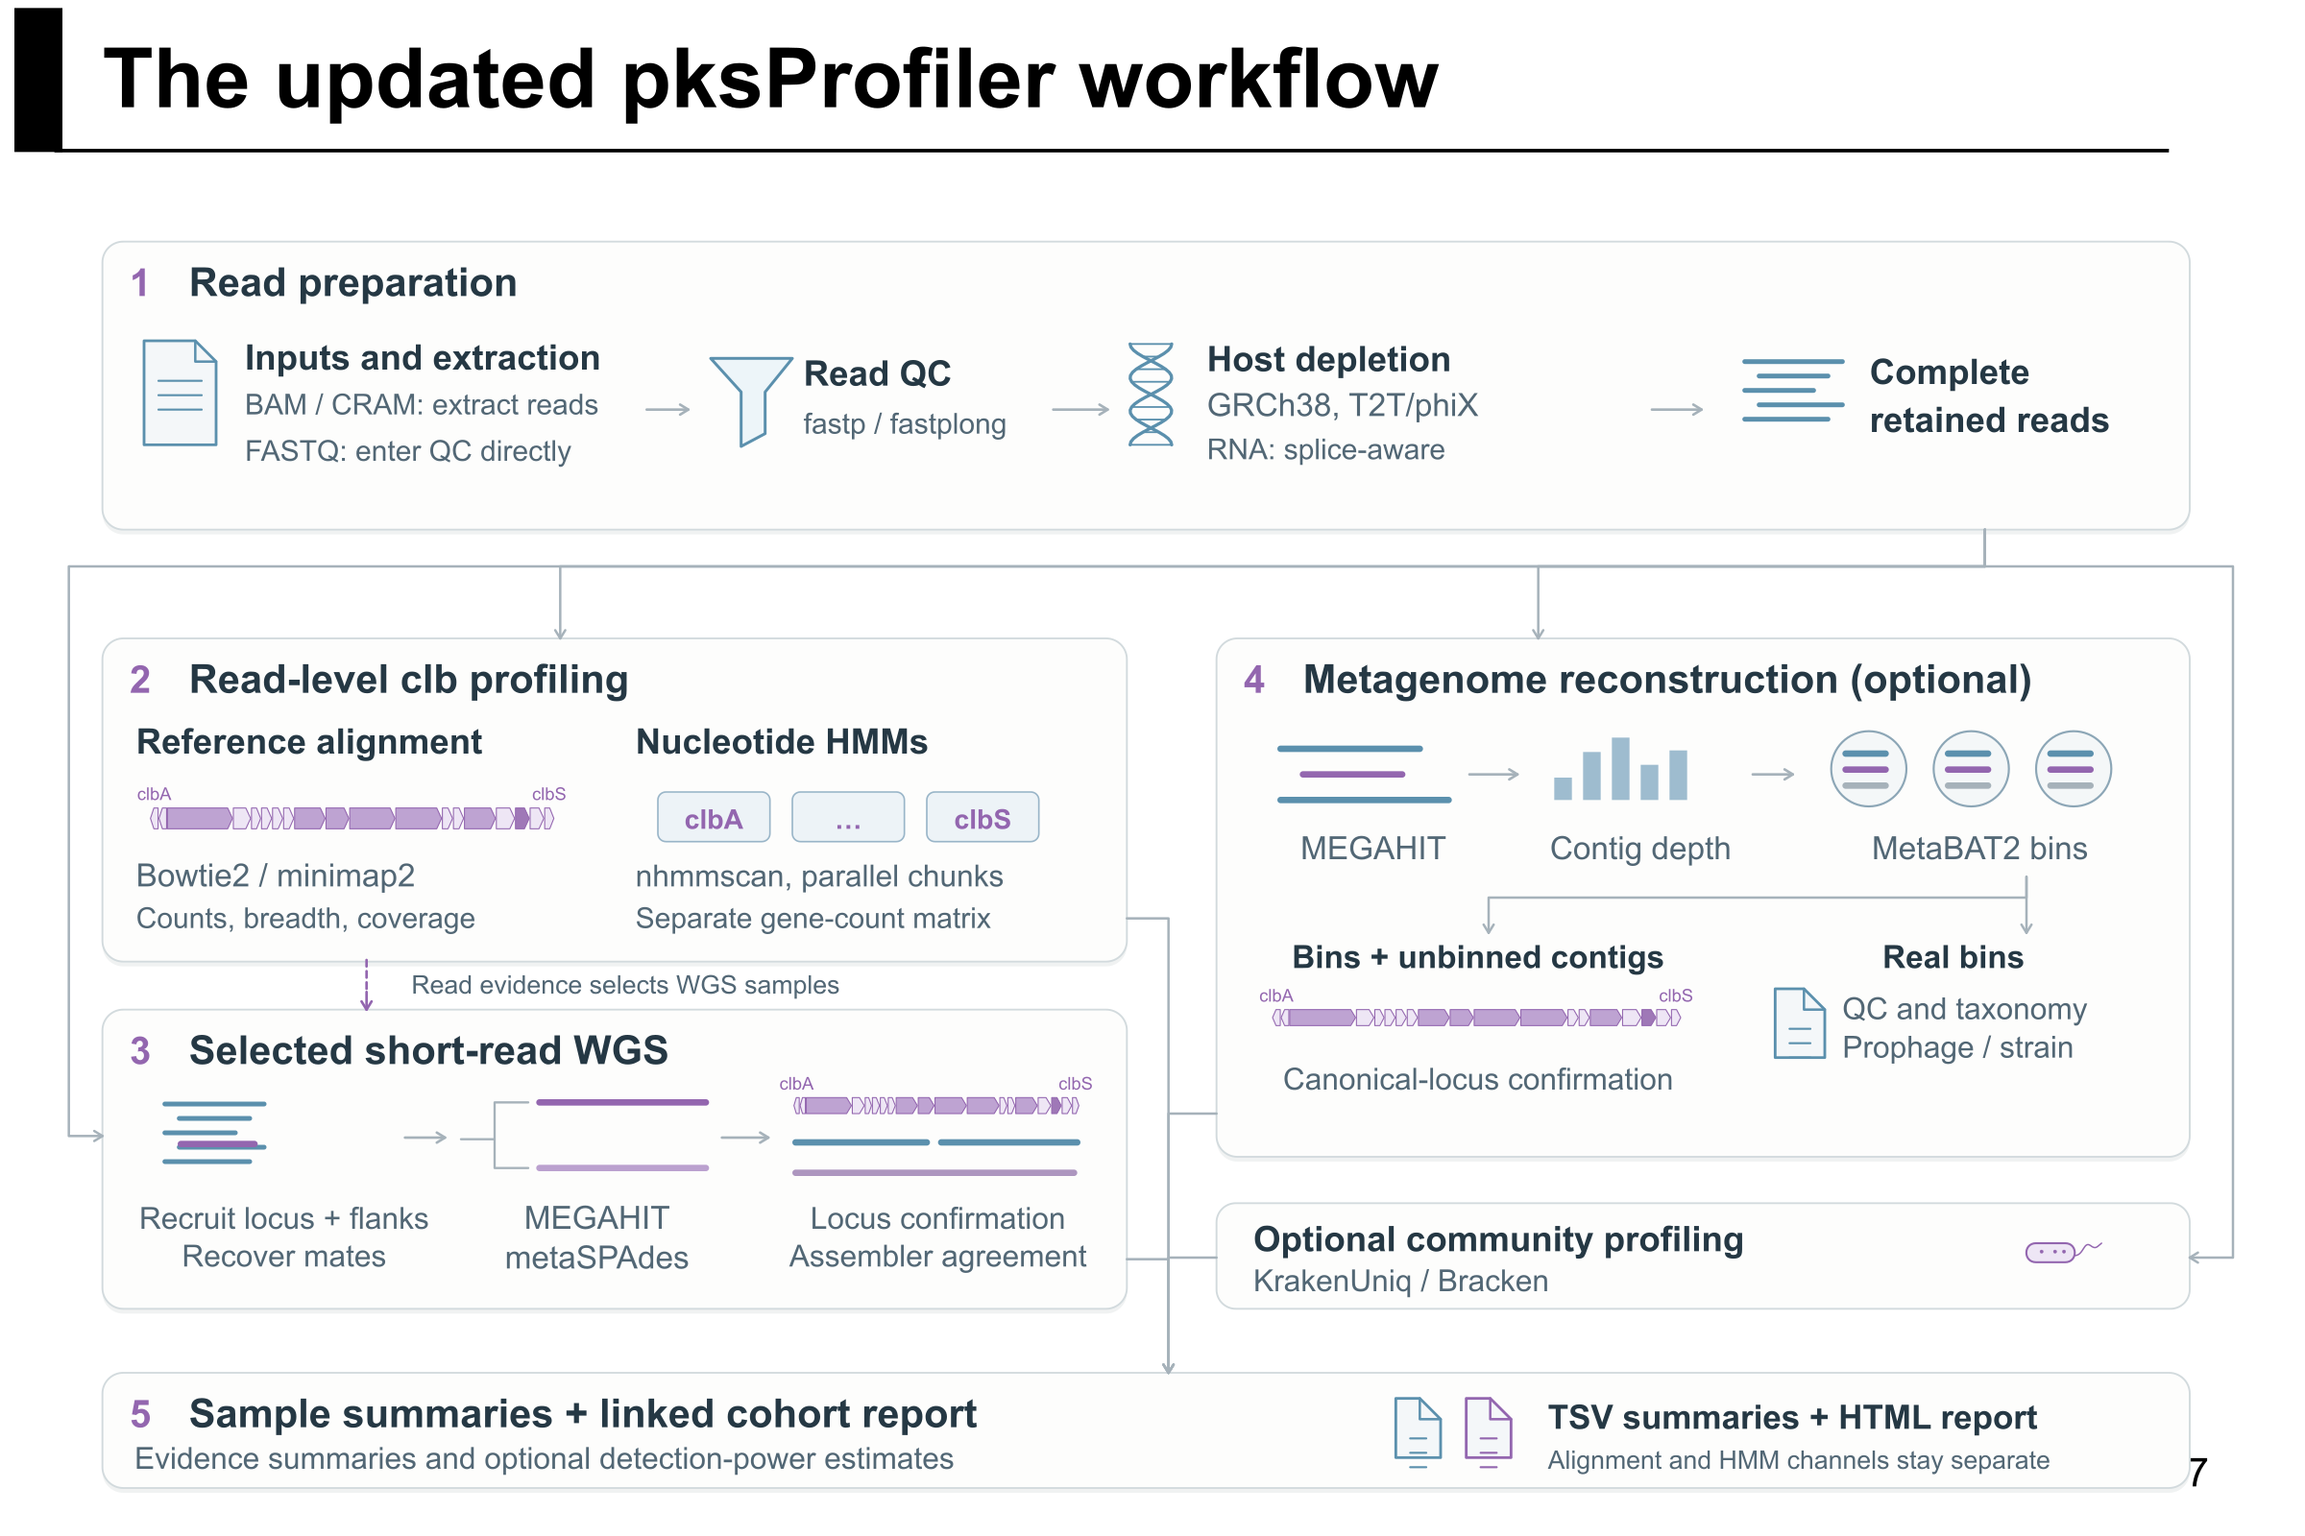
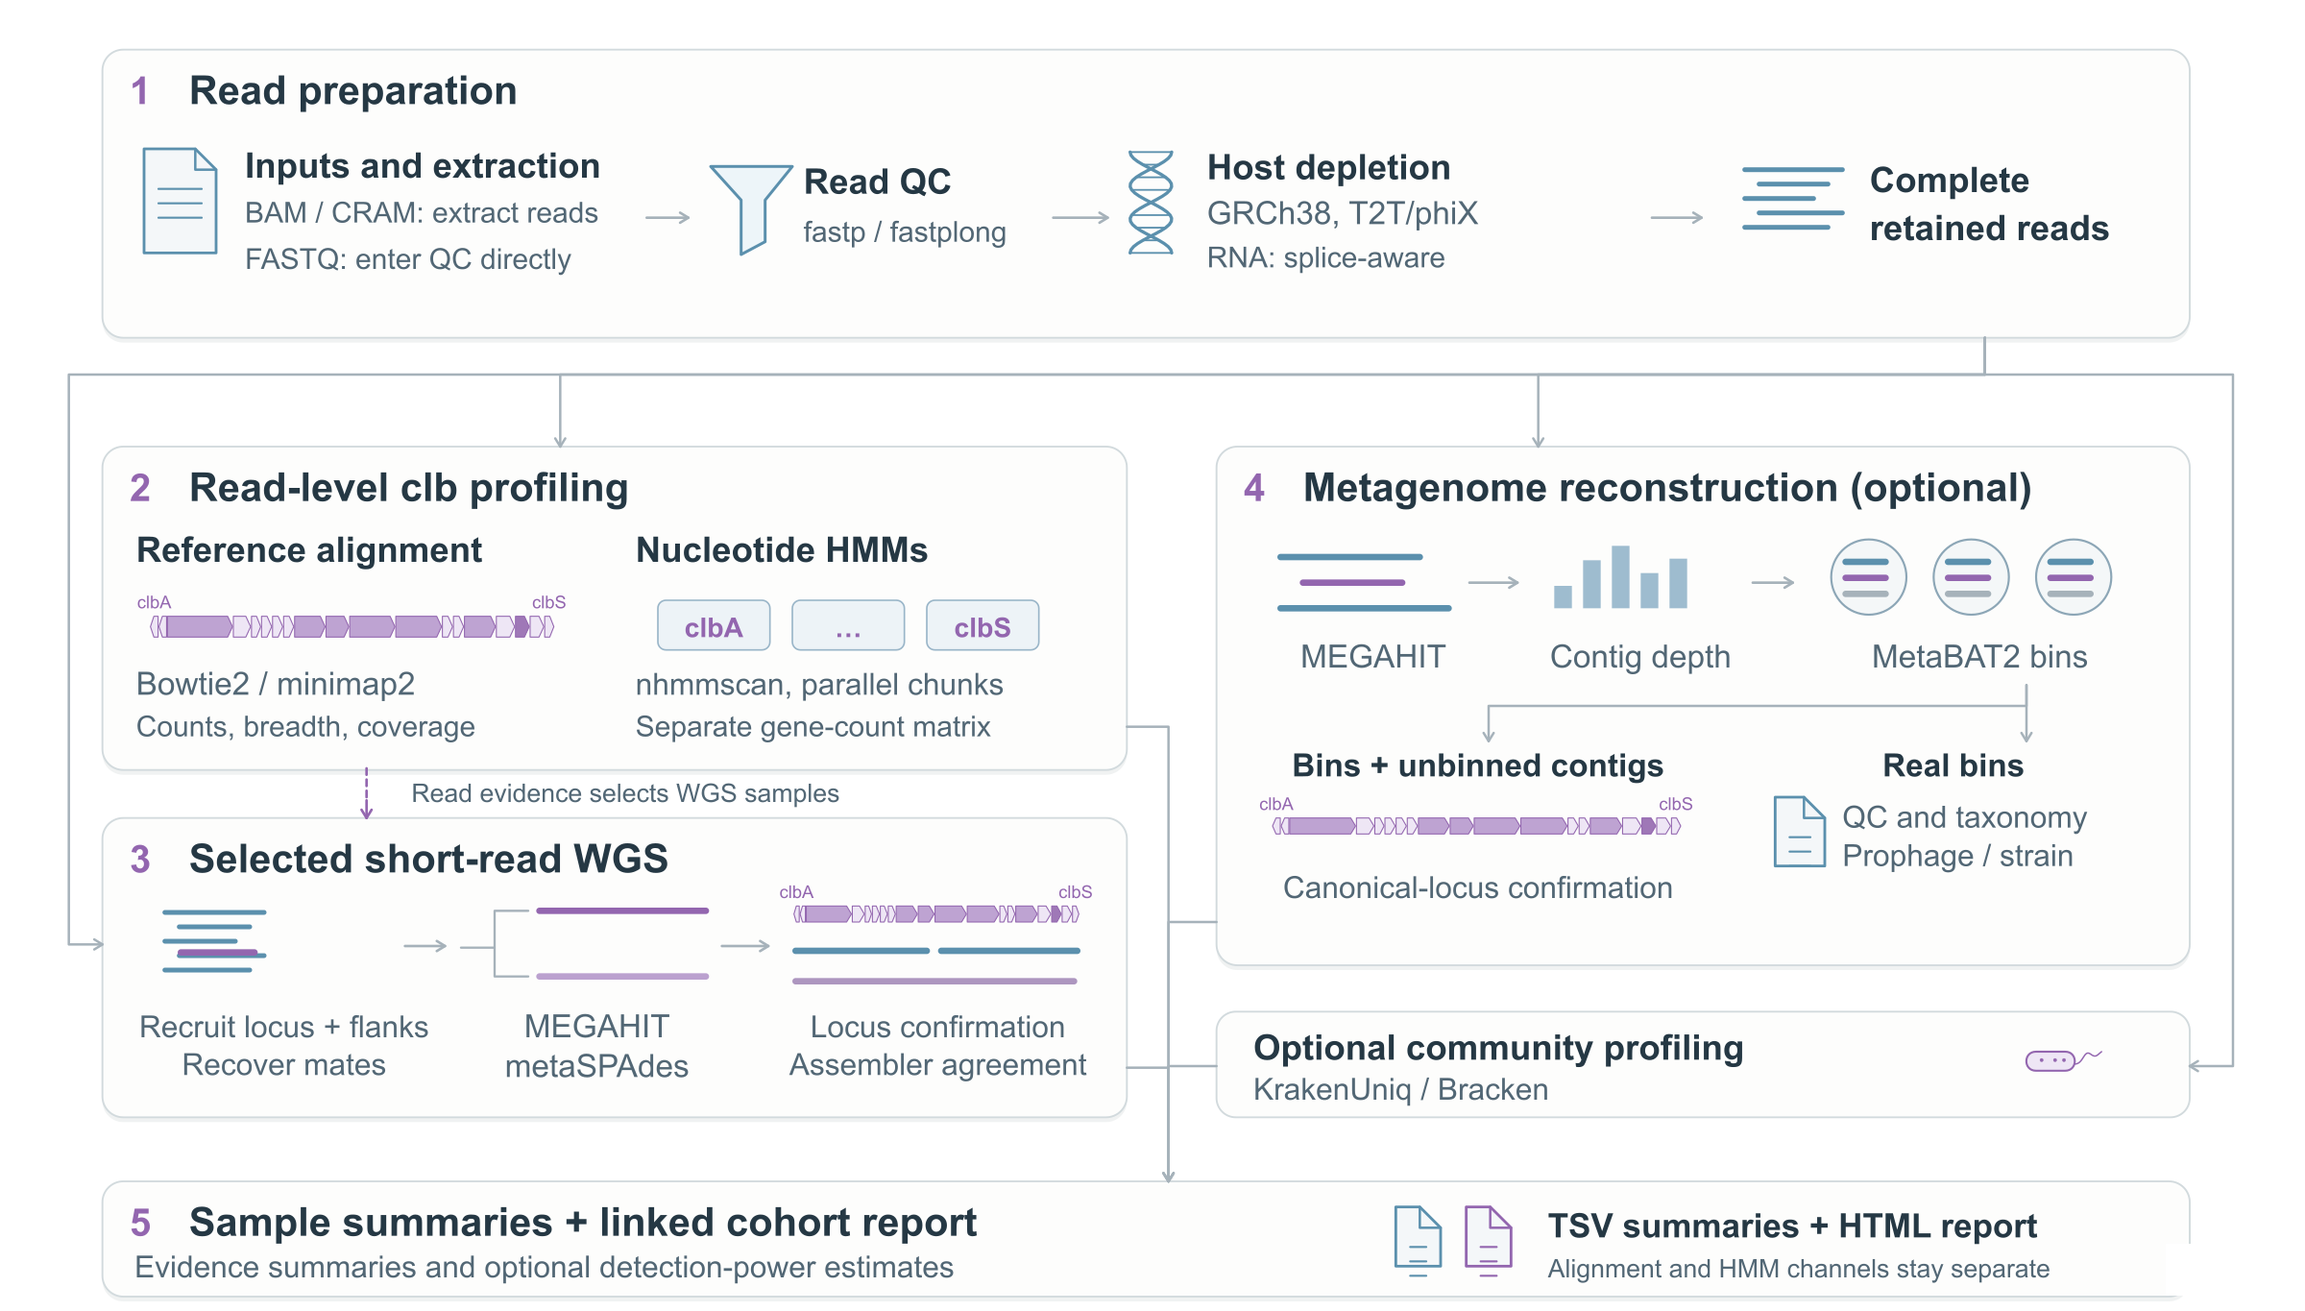
README: lead with the quick start, and say each thing once
Reordered to the path someone actually takes: quick start, then choosing a
sample mode, then references and databases, then the optional analyses, then
reading the results. Tier semantics and the meaning of 'untiered' move out of
the running sections into Read the results, where they belong -- you do not
need them to launch a run.

The quick start no longer assumes a metagenome: it picks --sample_type from a
four-row table and substitutes it into the command. The intro splits assay
support into one bullet per assay.

Redundancy pass: the four assays had ended up described in three places. Each
now has one job -- the intro bullets say what each assay answers, quick-start
step 2 gives the flag value, and the sample-mode table carries read technology
and assembly support. Cross-section near-duplicates are now zero.

Workflow figure: the slide title and page number are cropped out. The
interactive-workflow companion is removed; it did not match the shipped
pipeline.

diff --git a/README.md b/README.md
@@ -5,41 +5,93 @@
 
 **Profile the colibactin-encoding *pks* island in metagenomes and cancer sequencing data.**
 
-pksProfiler is a Nextflow pipeline for detecting and characterizing the 19 *clb* genes that make up the *pks* island. These genes encode colibactin, a bacterial toxin that can damage human DNA. The pipeline supports gut metagenomes, whole-genome sequencing (WGS), whole-exome sequencing (WES), and RNA-seq, with different evidence reports for each.
+pksProfiler is a Nextflow pipeline for detecting and characterizing the 19 *clb* genes that make up the *pks* island. These genes encode colibactin, a bacterial toxin that can damage human DNA.
 
-Start with read profiling. Add genome binning for metagenomes or targeted island reassembly for short-read WGS when you need assembled-sequence evidence.
+It supports four assays, each with its own evidence report:
+
+- **Gut metagenomes** — *clb* reads, genes and island breadth, plus reads per million host-depleted reads; optional community assembly and genome binning
+- **Whole-genome sequencing (WGS)** — genomic *pks* evidence; short reads receive evidence tiers, and qualifying samples get targeted island reassembly
+- **Whole-exome sequencing (WES)** — exploratory off-target *clb* DNA evidence
+- **RNA-seq** — expressed *clb* sequence and expression breadth
 
 ![pksProfiler workflow: read preparation; read-level clb profiling by alignment and nucleotide HMMs; targeted reassembly for qualifying short-read WGS; optional metagenome reconstruction with binning, QC, taxonomy and prophage context; sample summaries and a linked cohort report](assets/pksProfiler_workflow.png)
 
-**[Interactive workflow](docs/interactive-workflow.html)** — Hover directly over a step to reveal an enlarged view, technical steps, parameters, outputs, and code links. Tap a step on touch screens. Download the HTML file and open it in your browser; GitHub displays its source rather than running the interactions. The same file can be hosted on GitHub Pages.
+## Quick start
+
+Requires **Linux, Nextflow ≥24.10, Java 17+ on compute nodes, and Conda or Mamba**. Processes use pinned Conda environments; container profiles are not provided. Clone the repository and run from its directory. Human-depletion references must be supplied separately; the canonical bacterial reference and *clb* models are included.
+
+**1. Prepare a CSV.** Use unique sample IDs in `patient`.
+
+```csv
+patient,fastq1,fastq2
+SAMPLE_01,/data/SAMPLE_01_R1.fastq.gz,/data/SAMPLE_01_R2.fastq.gz
+```
+
+**2. Choose your sample mode.** One `--sample_type` per run — it is required and has no default.
+
+| Your data | Use |
+|---|---|
+| Gut metagenome | `--sample_type metagenome` |
+| Whole-genome sequencing | `--sample_type wgs` |
+| Whole-exome sequencing | `--sample_type wes` |
+| RNA-seq | `--sample_type rna` |
+
+**3. Run it.** Replace the example paths with your own, and `<MODE>` with your choice above.
+
+```bash
+nextflow run main.nf -profile local \
+  --sample samples.csv \
+  --sample_type <MODE> \
+  --input_data_type fastq \
+  --hg38_db /refs/human-GRC-db.mmi \
+  --t2t_phix_db /refs/human-GCA-phix-db.mmi \
+  --outdir results
+```
+
+RNA-seq replaces `--hg38_db` with `--rna_splice_db`, because human depletion has to be
+splice-aware; long reads take `--read_type ont|hifi` and their own indexes. Both are set out
+in [Choose your sample mode](#choose-your-sample-mode) below.
+
+**4. Open `results/cohort/pks_cohort_report.html`.** Check the QC table before interpreting missing or zero evidence. Add `-resume` to repeat a run using cached tasks — [what `-resume` does and does not reuse](docs/running/resume.md) matters when the pipeline version changed between runs.
+
+<details>
+<summary><strong>Other inputs: BAM, CRAM, single-end FASTQ</strong></summary>
+
+For aligned BAM/CRAM input, use:
+
+```csv
+patient,alignment
+TUMOR_01,/data/TUMOR_01.bam
+TUMOR_02,/data/TUMOR_02.cram
+```
+
+- Set `--input_data_type auto` to accept BAM and CRAM in this sheet. The legacy `bam` column is also supported; a `cram` column is not.
+- CRAM additionally requires `--cram_reference /refs/matching_reference.fa`.
+- Do not mix alignment and FASTQ columns in one sheet. `auto` selects the route from the header, not separately for each row.
+- For single-end FASTQ, omit `fastq2` or leave it empty. ONT/HiFi input must have one stream per sample.
+- BAM/CRAM must have reference sequences in its header (`@SQ`). Convert unaligned BAMs to FASTQ first.
+- Extraction retains primary unmapped reads. With `--extract_low_score_mapped auto` (default), a detected BWA-MEM alignment also contributes primary mapped reads with `AS < 30`. Use `on` or `off` to override.
+- IDs must start with a letter or number and contain only letters, numbers, `.`, `_`, or `-`.
+
+</details>
 
 ## Choose your sample mode
 
-Set **one `--sample_type` per run**. Input format, read technology, and profiling method are separate choices.
+One `--sample_type` per run. It fixes which read technologies and which assembly steps are
+available; input format and profiling method are separate choices. What each mode reports,
+and how to read it, is in [Read the results](#read-the-results).
 
-| Sample type | What it measures | Assembly support |
+| Sample type | Read technology | Assembly support |
 |---|---|---|
-| **`metagenome`** | *clb* reads, genes, island breadth, and reads per million host-depleted reads; **untiered** | Optional community assembly and genome binning |
-| **`wgs`** | Genomic *pks* evidence; short reads receive evidence tiers | Targeted reassembly for qualifying short-read samples, on by default |
-| **`wes`** | Exploratory off-target *clb* DNA evidence; **untiered** | None |
-| **`rna`** | Expressed *clb* sequence and expression breadth; **untiered** | None |
+| **`metagenome`** | short only | Optional community assembly and genome binning |
+| **`wgs`** | short, ONT, HiFi | Targeted island reassembly, short reads only, on by default |
+| **`wes`** | short only | None |
+| **`rna`** | short, ONT, HiFi | None |
 
-**ONT and PacBio HiFi are supported for WGS and RNA only.** Long-read WGS is untiered and does not run targeted reassembly. WES and metagenomes require short reads.
-
-### What does “untiered” mean?
-
-**Measurements are reported, but no short-read WGS evidence category is assigned.** It does not mean negative, failed, or low confidence.
-
-| Data | How to read the result |
-|---|---|
-| Short-read WGS | Reads, genes, and island coverage determine an evidence tier such as `multi_gene` or `broad_island`. |
-| Long-read WGS | Counts and coverage are reported without those tiers: a long read covers far more sequence than a short read, so the same cutoffs are not directly transferable. |
-| Metagenomes | Read counts, genes, coverage, and reads per million are reported without WGS tiers. Genome bins receive a separate assessment of assembled-locus evidence if MAG analysis is enabled. |
-| WES | Off-target DNA measurements are reported without WGS tiers; capture efficiency changes what is sampled. |
-| RNA | Expression measurements are reported without WGS tiers; RNA abundance and library preparation do not measure genomic island completeness. |
-
-The output uses the literal value `untiered` in `read_evidence.tsv` for metagenomes and long-read WGS. WES/RNA instead have their own evidence files. HMM-only profiling produces HMM counts without an alignment-based read-evidence file.
-
+Which host-depletion index each mode takes is in
+[Reference downloads and databases](#reference-downloads-and-databases); the per-mode flags,
+and what long reads do not support, are in
+[Add the analyses you need](#add-the-analyses-you-need).
 
 ## Reference downloads and databases
 
@@ -91,52 +143,6 @@ The shared RNA index was built with minimap2 `splice:sr` from GRCh38.d1.vd1; jun
 
 All three MAG databases are required when `--enable_mags true`. The download helpers above are Slurm scripts: adapt their scheduler/environment settings to your site. Record database releases; a directory name alone does not establish which build it contains. The pipeline's [database manifest](conf/databases.tsv) records the audited builds.
 
-## Quick start
-
-Requires **Linux, Nextflow ≥24.10, Java 17+ on compute nodes, and Conda or Mamba**. Processes use pinned Conda environments; container profiles are not provided. Clone the repository and run from its directory. Human-depletion references must be supplied separately; the canonical bacterial reference and *clb* models are included.
-
-**1. Prepare a CSV.** Use unique sample IDs in `patient`.
-
-```csv
-patient,fastq1,fastq2
-STOOL_01,/data/STOOL_01_R1.fastq.gz,/data/STOOL_01_R2.fastq.gz
-```
-
-**2. Profile a metagenome.** Replace the example paths with your own.
-
-```bash
-nextflow run main.nf -profile local \
-  --sample samples.csv \
-  --sample_type metagenome \
-  --input_data_type fastq \
-  --hg38_db /refs/human-GRC-db.mmi \
-  --t2t_phix_db /refs/human-GCA-phix-db.mmi \
-  --outdir results
-```
-
-**3. Open `results/cohort/pks_cohort_report.html`.** Check the QC table before interpreting missing or zero evidence. Add `-resume` to repeat a run using cached tasks — [what `-resume` does and does not reuse](docs/running/resume.md) matters when the pipeline version changed between runs.
-
-<details>
-<summary><strong>Other inputs: BAM, CRAM, single-end FASTQ</strong></summary>
-
-For aligned BAM/CRAM input, use:
-
-```csv
-patient,alignment
-TUMOR_01,/data/TUMOR_01.bam
-TUMOR_02,/data/TUMOR_02.cram
-```
-
-- Set `--input_data_type auto` to accept BAM and CRAM in this sheet. The legacy `bam` column is also supported; a `cram` column is not.
-- CRAM additionally requires `--cram_reference /refs/matching_reference.fa`.
-- Do not mix alignment and FASTQ columns in one sheet. `auto` selects the route from the header, not separately for each row.
-- For single-end FASTQ, omit `fastq2` or leave it empty. ONT/HiFi input must have one stream per sample.
-- BAM/CRAM must have reference sequences in its header (`@SQ`). Convert unaligned BAMs to FASTQ first.
-- Extraction retains primary unmapped reads. With `--extract_low_score_mapped auto` (default), a detected BWA-MEM alignment also contributes primary mapped reads with `AS < 30`. Use `on` or `off` to override.
-- IDs must start with a letter or number and contain only letters, numbers, `.`, `_`, or `-`.
-
-</details>
-
 ## Add the analyses you need
 
 | Analysis | Switch or setting | Availability |
@@ -168,7 +174,7 @@ MEGAHIT assembles the community; MetaBAT2 groups contigs into metagenome-assembl
 
 Every recovered bin, plus the pooled **unbinned** contigs, is aligned to the canonical island. Genome-level locus evidence is separate from sample read evidence. Protein HMM hits alone do not establish a *pks*-positive genome. An unbinned hit is not an additional positive genome or an identified organism.
 
-Start with `genomes/pks_mag_summary.tsv` and `genomes/mag_status.tsv` under each sample. No contigs or bins means no reconstruction, not demonstrated biological absence. Add `--save_intermediates true` to publish assembly and bin FASTAs; these are not retained in the results directory by default.
+No contigs or bins means no reconstruction, not demonstrated biological absence; the files to start from are listed under [Read the results](#read-the-results). Add `--save_intermediates true` to publish assembly and bin FASTAs; these are not retained in the results directory by default.
 
 Community tables describe prophages, nearby integrase/tRNA features, and co-occurring bins. They support hypotheses about interaction or mobility, not proof of physical proximity, transfer, or prophage induction. Default strain typing uses the *E. coli* Achtman scheme and requires enough assembled sequence to recover its loci.
 
@@ -226,6 +232,20 @@ In a completed run, open `results/cohort/pks_cohort_report.html`. Where targeted
 **Metagenome abundance** is `pks_reads × 1,000,000 / host_depleted_reads`. The denominator is the complete final host-depleted stream, before optional profiling prefiltering. A zero denominator is reported as `NA`.
 
 **A missing result is not a negative.** Check QC and stage status first. For short WGS, QC's `completed_negative` includes `localized_indeterminate`; inspect `read_evidence.tsv` to distinguish weak evidence from zero reads.
+
+### What “untiered” means
+
+**Measurements are reported, but no short-read WGS evidence category is assigned.** It does not mean negative, failed, or low confidence.
+
+| Data | How to read the result |
+|---|---|
+| Short-read WGS | Reads, genes, and island coverage determine an evidence tier such as `multi_gene` or `broad_island`. |
+| Long-read WGS | Counts and coverage are reported without those tiers: a long read covers far more sequence than a short read, so the same cutoffs are not directly transferable. |
+| Metagenomes | Read counts, genes, coverage, and reads per million are reported without WGS tiers. Genome bins receive a separate assessment of assembled-locus evidence if MAG analysis is enabled. |
+| WES | Off-target DNA measurements are reported without WGS tiers; capture efficiency changes what is sampled. |
+| RNA | Expression measurements are reported without WGS tiers; RNA abundance and library preparation do not measure genomic island completeness. |
+
+The output uses the literal value `untiered` in `read_evidence.tsv` for metagenomes and long-read WGS. WES/RNA instead have their own evidence files. HMM-only profiling produces HMM counts without an alignment-based read-evidence file.
 
 <details>
 <summary><strong>Short-read WGS tiers and mode-specific files</strong></summary>
